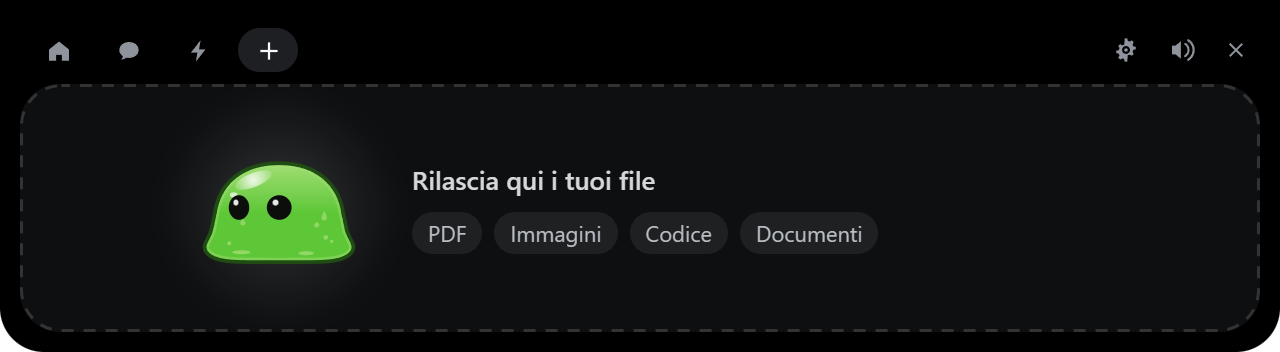
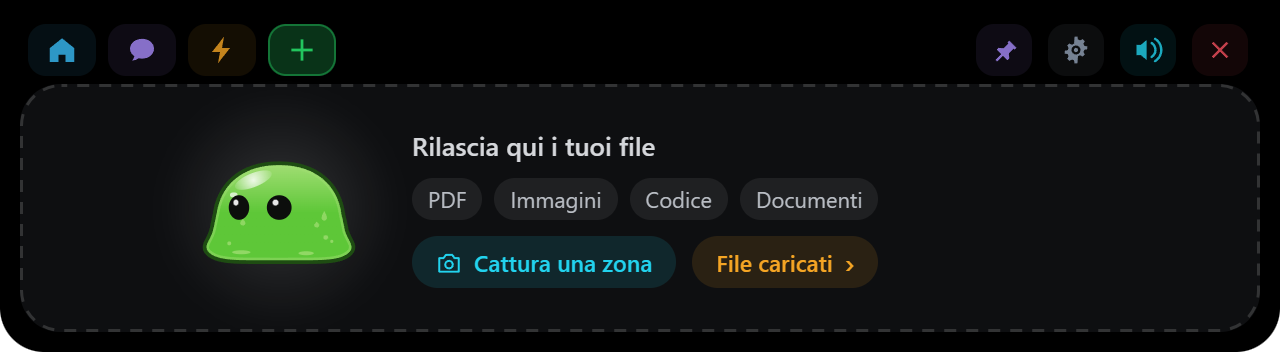
README completo e nuove schermate (completa il commit precedente)
Il commit precedente conteneva solo la rimozione di design/: qui il
resto descritto nel suo messaggio (README, schermate, scena "network",
CLAUDE.md, LICENSE-ASSETS.md, commenti, altezza della scheda ⚡,
caratteri di controllo corretti).

diff --git a/dev/scenes.ts b/dev/scenes.ts
@@ -1,5 +1,6 @@
 // Staged island states for the README screenshots, in the browser preview only:
-//   /?scene=overview   (greeting, compact, overview, approval, chat, drop)
+//   /?scene=overview   (greeting, compact, overview, approval, chat, drop, actions,
+//                       threecx, clipboard, media, network, suggestion)
 // When the scene has settled the page turns transparent and its title says
 // "scene ready"; scripts/screenshots.mjs then captures just the island.
 
@@ -114,6 +115,41 @@ export async function runScene(island: Island, scene: string) {
       State.setFocus("integration_3cx");
       island.alert("overview");
       await wait(2500);
+      break;
+    }
+    case "network": {
+      // ?activeIntegrations=integration_network,… — an integration run as a check.
+      await wait(300);
+      State.widgetStatus.integration_network = {
+        id: "integration_network", level: "ok", at: Math.floor(Date.now() / 1000) - 40,
+        summary: "Wi-Fi Ufficio · 18 ms",
+        fields: [
+          { label: "IP locale", value: "192.168.1.24" },
+          { label: "IP pubblico", value: "203.0.113.57" },
+          { label: "Wi-Fi", value: "Ufficio (5 GHz, 86%)" },
+          { label: "VPN", value: "nessuna" },
+          { label: "Latenza", value: "18 ms" },
+        ],
+      };
+      State.setFocus("integration_network");
+      island.alert("overview");
+      await wait(2500);
+      break;
+    }
+    case "actions": {
+      // The ⚡ tab: the user's quick actions and the suggestions for the app in front.
+      await wait(300);
+      const base = { args: "", script: "", shell: "powershell" as const, prompt: "", input: "clipboard" as const, confirm: true, hotkey: "", target: "" };
+      State.settings.actions = [
+        { ...base, id: "a1", name: "Portale clienti", icon: "i:globe", color: "#38BDF8", kind: "url", target: "https://example.com" },
+        { ...base, id: "a2", name: "Desktop remoto", icon: "i:remote", color: "#A78BFA", kind: "app", target: "mstsc" },
+        { ...base, id: "a3", name: "Spooler", icon: "i:printer", color: "#F5A524", kind: "script", script: "Restart-Service Spooler" },
+        { ...base, id: "a4", name: "Spiega errore", icon: "i:bolt", color: "#22C55E", kind: "prompt", prompt: "Spiega questo errore", hotkey: "Ctrl+Alt+E" },
+      ];
+      State.foreground = { exe: "outlook.exe", title: "Posta in arrivo - Outlook" };
+      island.alert("actions");
+      // The tab grows to fit four actions: give it time to settle.
+      await wait(4000);
       break;
     }
     case "suggestion":

diff --git a/src/views/actions.ts b/src/views/actions.ts
@@ -63,7 +63,11 @@ function actionButton(a: QuickAction, onClick: () => void): HTMLElement {
 export function buildActions(handlers: ActionHandlers): ViewHost {
   const grid = h("div", { class: "qa-grid" });
   const suggest = h("div", { class: "qa-suggest" });
-  const el = h("div", { class: "view" }, h("div", { class: "card qa-card" }, suggest, grid));
+  const card = h("div", { class: "card qa-card" }, suggest, grid);
+  const el = h("div", { class: "view" }, card);
+  // The buttons wrap differently while the island is still widening: measure
+  // again whenever their block changes size, not only when the actions change.
+  new ResizeObserver(() => State.notify()).observe(grid);
   let key = "";
   return {
     el,
@@ -109,7 +113,8 @@ export function buildActions(handlers: ActionHandlers): ViewHost {
       for (const a of list) grid.append(actionButton(a, () => handlers.runAction(a)));
     },
     // Many actions wrap onto more rows: the island grows to show them all.
-    fitHeight: () => suggest.offsetHeight + grid.offsetHeight + 26,
+    // scrollHeight: the card's padding and the gap under the suggestions included.
+    fitHeight: () => card.scrollHeight + 2,
   };
 }
 

diff --git a/src/settings/main.ts b/src/settings/main.ts
@@ -553,7 +553,7 @@ function integrationsSection(present: Record<string, boolean>): HTMLElement {
         } catch (e) {
           dotEl.style.background = "#f5a524";
           // Windows refuses new entries when its Credential Manager is nearly full.
-          const full = /memoria|memory|8|1312/i.test(String(e));
+          const full = /memoria|memory|\b8\b|1312/i.test(String(e));
           saveError.textContent = full
             ? "Non salvata: Gestione credenziali di Windows è piena. Elimina le voci che non servono (es. le centinaia di token di Xbox) e riprova."
             : `Non salvata: ${String(e).replace(/^Error:\s*/, "")}`;

diff --git a/src/character/engine.ts b/src/character/engine.ts
@@ -1,7 +1,7 @@
 // The character's engine — states, tweens, emotes and particles, ported from the
 // original BotEngine.swift to Canvas 2D (same constants, tweens and easings).
-// The body is whichever character is chosen (./character.ts); the eye arcs follow the prototype
-// (design/prototype/notch-buddy.html).
+// The body is whichever character is chosen (./character.ts); the eye arcs follow the
+// original Coucou prototype (in this repository's git history).
 
 import { Ease, lerp, type EaseFn } from "../core/anim";
 import { Sound } from "../core/sound";

diff --git a/src/upload/sequence.ts b/src/upload/sequence.ts
@@ -1,5 +1,5 @@
 // The drop choreography — port of UploadSequenceEngine.swift, itself a port of
-// design/prototype/upload-sequence.html.
+// the original Coucou prototype (upload-sequence.html, in the git history).
 //
 // The engine is pure arithmetic: it owns no DOM and draws nothing. It takes the
 // cursor and a drop time, and hands `frame()` back everything the canvas needs

diff --git a/README.md b/README.md
@@ -17,6 +17,32 @@ Approva i permessi di Claude Code, guarda la sessione lavorare, rilascia un file
 
 <img src="screenshots/greeting.png" width="640" alt="Slime che saluta all'avvio">
 
+## Cosa fa
+
+- **Claude Code nell'isola**: vedi le sessioni lavorare, rispondi ai permessi
+  con **Nega / Consenti** e alle domande, torna all'app della sessione con un clic
+  ([Claude Code](#claude-code)).
+- **Chat con Claude** dall'isola, con l'abbonamento o una chiave API; allega
+  testo, file, immagini copiate o una **zona dello schermo**; calcolatrice nel
+  campo ([Chat con Claude](#chat-con-claude)).
+- **Azioni rapide** (link, programmi, script, domande a Claude) con scorciatoie
+  globali, e suggerimenti per l'app che stai usando
+  ([Azioni rapide](#azioni-rapide-e-scorciatoie)).
+- **Integrazioni** come pillole o schede: 3CX (chiamate, rubrica, chiamate in
+  arrivo), Zammad, Outlook, stato del PC, sicurezza, rete, meteo, appunti con
+  testi e immagini, musica, GitHub, Vercel, Stripe, n8n e altre
+  ([Integrazioni](#integrazioni)); **widget** per siti, certificati, server,
+  domini, calendari, API ([Widget](#widget)).
+- **Automazioni** "quando… allora…", create dalle Impostazioni o a parole in
+  chat, e proposte dalle tue abitudini; Claude può anche usare il PC per te, con
+  il tuo consenso ([Automazioni](#automazioni)).
+- **File rilasciati**: domande su un file, estrazione degli ZIP, cronologia dei
+  file caricati.
+- **Profili** (lavoro, casa, concentrazione) che cambiano da soli, modalità
+  **davanti al cliente**, messaggi da qualsiasi script, backup delle impostazioni.
+- **Tre personaggi** (Slime, Goccia, EasyTech), posizione libera, tema, suoni
+  generati nel codice; leggera a batteria, nessuna telemetria.
+
 ---
 
 ## Installazione
@@ -144,7 +170,8 @@ disinstallatore volutamente non tocca il `settings.json` di Claude Code. Poi
 | `error: toolchain 'stable-x86_64-pc-windows-msvc' is not installed` | `rustup default stable-msvc` |
 | l'installer viene bloccato da Defender | è il falso positivo descritto sopra: usa "Esegui comunque", oppure lancia direttamente `target\release\easyisland.exe` |
 | Slime non compare | guarda nell'area di notifica (la freccia ^ accanto all'orologio) e il log in `%LOCALAPPDATA%\EasyIsland\easyisland.log` |
-| le Impostazioni | sono divise in pagine (Generale, Aspetto, Notifiche, Claude, Azioni rapide, Integrazioni, Widget, Backup) nel menu a sinistra; la finestra ricorda l'ultima aperta |
+| le Impostazioni | sono divise in pagine (Generale, Aspetto, Notifiche, Claude, Azioni rapide, Automazioni, Integrazioni, Widget, Backup) nel menu a sinistra; la finestra ricorda l'ultima aperta |
+| una chiave o una password "non si salva" | Gestione credenziali di Windows è piena (spesso di centinaia di token in cache di Xbox o di altre app) e rifiuta le voci nuove: le Impostazioni lo dicono sotto il campo. Elimina le voci che non servono da Pannello di controllo → Gestione credenziali → Credenziali generiche e riprova |
 | vuoi aprire le impostazioni senza l'area di notifica | `"%LOCALAPPDATA%\EasyIsland\easyisland.exe" --settings` (anche come collegamento) |
 
 ## Come si usa
@@ -153,15 +180,17 @@ disinstallatore volutamente non tocca il `settings.json` di Claude Code. Poi
 <img src="screenshots/overview.png" width="640" alt="La panoramica: una sessione di Claude Code al lavoro a sinistra, le altre pillole a destra">
 <img src="screenshots/approval.png" width="640" alt="Una richiesta di permesso di Claude Code, con Nega e Consenti">
 <img src="screenshots/chat.png" width="640" alt="Chat con Claude dall'isola">
-<img src="screenshots/drop.png" width="640" alt="Slime trasformato in una scatola, in attesa di un file">
+<img src="screenshots/drop.png" width="640" alt="Slime trasformato in una scatola, in attesa di un file, con Cattura una zona e File caricati">
 
-_Schermate generate dall'anteprima con `node scripts/screenshots.mjs` (serve `npm run dev` acceso)._
+_Schermate generate dall'anteprima con `node scripts/screenshots.mjs` (serve `npm run dev` acceso), con dati di prova delle scene in `dev/scenes.ts`._
 
 | Cosa fai | Cosa succede |
 |---|---|
 | Porti il mouse sull'icona di Slime (in alto al centro, o nell'angolo che hai scelto) | Slime si ingrandisce (o resta sempre così, con **Sempre visibile**) |
 | Clicchi su Slime, o lasci il mouse sopra per un attimo se "Apri dopo" lo prevede | Si apre l'isola, allineata a quel lato |
-| Trascini Slime tenendo premuto il tasto sinistro | Si sposta dove lo lasci, e la posizione resta salvata nel profilo |
+| Trascini Slime tenendo premuto il tasto sinistro (anche l'icona a riposo) | Si sposta dove lo lasci, e la posizione resta salvata nel profilo |
+| Trascini l'isola aperta dallo spazio vuoto dell'intestazione | Resta lì finché è aperta; chiudendola torna al posto di Slime |
+| Trascini una pillola o una scheda in alto | Cambia posto (si blocca in Impostazioni → Integrazioni) |
 | Clicchi su Slime | Si infastidisce. Tre volte di fila e gli gira la testa |
 | Lasci il puntatore su Slime per due secondi | Cuori |
 | Trascini un file sull'isola | Si apre anche se è impostata "solo con un clic": Slime diventa una scatola, lo inghiotte e poi si offre di rispondere a domande sul file |
@@ -169,6 +198,7 @@ _Schermate generate dall'anteprima con `node scripts/screenshots.mjs` (serve `np
 | 📌 in alto a destra | **Tieni aperta**: l'isola non si chiude più da sola finché non la togli (Esc e ✕ la chiudono comunque) |
 | Scrivi un calcolo nella chat, es. `840 + 22%` o `15% di 840` | Compare subito il risultato; **Invio** lo copia negli appunti, **Ctrl+Invio** chiede comunque a Claude. Il calcolo è fatto in locale, senza Claude |
 | Rilasci uno ZIP | Oltre a "Fai una domanda" c'è **Estrai…**: vedi cosa contiene e lo estrai in una cartella nuova accanto all'originale, in Download o sul Desktop |
+| Scheda **+** → **Cattura una zona** (o `Ctrl+Alt+Shift+S`) | Lo Strumento di cattura di Windows: scegli una zona, una finestra o lo schermo e la chat si apre con l'immagine allegata |
 | Scheda **+** → **File caricati** | La cronologia dei file rilasciati sull'isola (le copie tenute per una settimana): chiedi a Claude, apri, mostra nella cartella, elimina uno o tutti. Gli originali non vengono toccati |
 | Icona nell'area di notifica | Apri, Impostazioni…, Pausa, Esci |
 
@@ -182,6 +212,8 @@ poi le pillole scorrono).
 ## Posizione e aspetto
 
 **Impostazioni… → Posizione e aspetto** decide dove vive Slime e quanto si fa notare:
+
+<img src="screenshots/settings.png" width="700" alt="La finestra delle impostazioni, pagina Aspetto">
 
 - **Posizione**: in alto o in basso, a sinistra, al centro o a destra. Quando si
   apre, l'isola cresce dall'angolo scelto e il contenuto resta allineato a quel
@@ -233,6 +265,8 @@ di EasyIsland. Le impostazioni si cambiano nell'indirizzo, per esempio
 ## Azioni rapide e scorciatoie
 
 **Impostazioni… → Azioni rapide** crea i pulsanti della scheda ⚡ dell'isola:
+
+<img src="screenshots/actions.png" width="640" alt="La scheda Azioni: i suggerimenti per Outlook in alto e le azioni rapide sotto">
 
 | Tipo | Cosa fa |
 |---|---|
@@ -302,6 +336,48 @@ come"). Aprendo la scheda si vede solo quell'integrazione; le pillole restano
 sulla scheda ⌂.
 
 Quali integrazioni sono accese, e come sono mostrate, dipende dal profilo.
+
+<img src="screenshots/threecx.png" width="640" alt="3CX: una chiamata in arrivo con Rispondi e Rifiuta, una chiamata in linea e la ricerca in rubrica">
+<img src="screenshots/clipboard.png" width="640" alt="Appunti: un'immagine copiata, un link, un indirizzo fissato e un JSON">
+<img src="screenshots/media.png" width="640" alt="Musica: il brano in riproduzione con i controlli">
+<img src="screenshots/network.png" width="640" alt="Rete: IP locale e pubblico, Wi-Fi, VPN e latenza">
+<img src="screenshots/settings-integrations.png" width="700" alt="Impostazioni, pagina Integrazioni">
+
+### 3CX
+
+Chiamate, rubrica e chiamate in arrivo del tuo interno, dall'isola, su un
+centralino **3CX V20**. In **Impostazioni → Integrazioni → 3CX** scegli
+l'accesso:
+
+- **Interno e password** (consigliato): EasyIsland entra come fa l'app 3CX, con
+  l'indirizzo del centralino (es. `https://azienda.my3cx.it:5001`), il tuo interno
+  o la tua e-mail e la password del web client. Nessuna licenza in più e niente
+  da fare nell'Admin Console. È il modo in cui funziona il web client di 3CX, non
+  un'interfaccia documentata: un aggiornamento del centralino potrebbe
+  richiedere un aggiornamento di EasyIsland. La verifica in due passaggi non è
+  ancora supportata.
+- **Client API**: nell'Admin Console di 3CX, **Integrazioni → API → Aggiungi**,
+  spunta *3CX Call Control API Access* (e *Configuration API Access* per la
+  rubrica) e aggiungi il tuo interno tra quelli monitorati; in EasyIsland metti
+  indirizzo, Client ID, chiave API e interno. Serve una licenza **8SC o
+  superiore**. Stato e cronologia non sono disponibili in questo modo.
+
+Nella scheda **3CX**:
+
+- **Chiamare**: scrivi un numero o cerca un nome, un'azienda o un collega e
+  clicca il numero; **Invio** chiama il primo risultato.
+- **Dispositivo**: in fondo, **Da …** sceglie da dove parte la chiamata (app 3CX
+  per Windows, telefono da scrivania, smartphone) oppure *automatico*.
+- **Chiamate in arrivo**: l'isola si apre sulla scheda 3CX con un suono e resta
+  aperta finché squilla, con **Rispondi** (se il dispositivo si può comandare a
+  distanza, come l'app 3CX) e **Rifiuta**. Con "davanti al cliente" attivo compare
+  solo il segnale sulla pillola, senza il nome di chi chiama.
+- **In linea**: durata della chiamata e **Riaggancia**.
+- **Stato** (Disponibile, Assente, Non disturbare…) dal menu accanto a "3CX",
+  **chiamate perse** e **Recenti** (solo con interno e password).
+
+EasyIsland resta collegato solo con l'integrazione accesa e non in pausa, e si
+ricollega da solo se il collegamento cade. Numeri e nomi restano in memoria.
 
 ## Widget
 
@@ -386,8 +462,6 @@ attivo.
 
 ## Claude Code
 
-<img src="screenshots/settings.png" width="700" alt="La finestra delle impostazioni, pagina Aspetto">
-
 Apri **Impostazioni… → Claude Code → Installa hook…**. Vedi il diff esatto di cosa
 cambierà in `%USERPROFILE%\.claude\settings.json` e il percorso della copia di
 backup datata che verrà creata. Non viene scritto nulla finché non clicchi. I tuoi
@@ -429,12 +503,16 @@ Le chiavi stanno in **Gestione credenziali di Windows**, mai su disco e mai
 nell'interfaccia: l'isola può solo chiedere se una chiave esiste. Lo stesso vale
 per le chiavi di ogni integrazione.
 
+Alla chat si può allegare il testo copiato o un'immagine (`Ctrl+Alt+K`), un file
+rilasciato sull'isola, una **zona dello schermo** (`Ctrl+Alt+Shift+S` o scheda
+**+**) o un'immagine della cronologia Appunti (**Chiedi a Claude**).
+
 Slime risponde in italiano, a meno che tu non gli scriva in un'altra lingua.
 **Nuova chat**, a sinistra del campo di testo, dimentica la conversazione (e il
 file o il testo a cui si riferiva) e ne comincia una da zero.
 
 Con "Abbonamento Claude", EasyIsland cerca Claude Code nel `PATH`, in
-`%USERPROFILE%\.localin` e nella cartella di npm; se non c'è un'installazione
+`%USERPROFILE%\.local\bin` e nella cartella di npm; se non c'è un'installazione
 a sé, usa la copia inclusa nell'app desktop di Claude
 (`%APPDATA%\Claude\claude-code\<versione>`) o nell'estensione per VS Code,
 sempre la versione più recente.
@@ -448,6 +526,8 @@ Aggiornamenti).
 
 **Impostazioni… → Automazioni**: quando succede qualcosa, EasyIsland fa
 qualcosa per te.
+
+<img src="screenshots/settings-automations.png" width="700" alt="Impostazioni, pagina Automazioni">
 
 | Quando | Esempio |
 |---|---|
@@ -486,6 +566,8 @@ rifiutate* se cambi idea). Propone anche le sequenze (*"Quando apri il gestional
 e, se un'automazione nata da una proposta non ti serve più (apre un programma
 che poi non usi), ti chiede se spegnerla. In **Programmi da non osservare**
 indichi quelli da ignorare. Al massimo una proposta al giorno.
+
+<img src="screenshots/suggestion.png" width="640" alt="Una proposta dalle abitudini: Apro Outlook alle 08:50?">
 
 ### Claude può usare il PC
 
@@ -551,8 +633,8 @@ npm run icons          # rigenera src-tauri/icons da scripts/gen-icons.mjs
 2. Crea e invia il tag:
 
    ```powershell
-   git tag v0.5.0
-   git push origin v0.5.0
+   git tag vX.Y.Z
+   git push origin vX.Y.Z
    ```
 
 3. La workflow **Build** compila l'installer, lo firma per l'aggiornamento e
@@ -576,10 +658,11 @@ mano. Tienine una copia al sicuro.
     island/            macchina a stati, hook, integrazioni
     views/             tutte le viste dell'isola
     settings/          la finestra delle impostazioni
-  src-tauri/           backend Rust: finestra, named pipe, API Claude, poller
-  hook/                easyisland-hook.exe, il relay per Claude Code
-  scripts/             generatore di icone, impacchettamento dell'installer
-  design/              prototipo HTML originale e catture di riferimento
+  src-tauri/           backend Rust: finestra, named pipe, API Claude, integrazioni, 3CX, automazioni
+  hook/                easyisland-hook.exe: il relay per Claude Code e il connettore MCP "easyisland"
+  scripts/             icone, impacchettamento dell'installer, schermate del README
+  dev/                 anteprime nel browser (personaggi, suoni, rilascio) e scene delle schermate
+  screenshots/         le immagini di questo README
 ```
 
 ### Log
@@ -592,8 +675,8 @@ problemi dei poller. Resta sul tuo computer.
 EasyIsland nasce come fork solo per Windows di
 [Louis-CFM/coucou](https://github.com/Louis-CFM/coucou) (Coucou, con il
 personaggio Mochi), app nativa macOS per il notch. Slime, uno slime,
-ha preso il posto di Mochi. Il codice macOS è stato rimosso; il
-prototipo originale in `design/` resta il riferimento visivo. Alcune funzioni
+ha preso il posto di Mochi. Il codice macOS e il prototipo originale sono stati
+rimossi (restano nella storia git). Alcune funzioni
 esistevano solo sul Mac e non sono presenti qui: invio di un file per email,
 trascinamento di Slime su una finestra per allegarla come contesto, salto alla
 finestra esatta del terminale. Al suo posto, quando una sessione finisce o va

diff --git a/HANDOFF.md b/HANDOFF.md
@@ -237,6 +237,13 @@ Apri una sessione su questo repo e scrivi, per esempio: _"Leggi HANDOFF.md e CLA
 
 ## 10. Registro delle modifiche
 
+### 4 ottobre 2026 — README completo, nuove schermate, via la cartella design
+- **README:** nuova sezione "Cosa fa" in cima con i collegamenti; sezione **3CX** (i due accessi e come configurarli, cosa fa la scheda); spostamento dell'isola aperta, riordino di pillole e schede, Cattura una zona e allegati della chat nella tabella "Come si usa"; soluzione per "la chiave non si salva" (Gestione credenziali piena); pagina Automazioni nell'elenco delle Impostazioni; struttura del repository aggiornata (`dev/`, `screenshots/`, niente `design/`); esempio del tag di versione generico. Corretto un carattere di controllo (backspace) che rovinava il percorso `%USERPROFILE%\.local\bin`.
+- **Schermate** (`scripts/screenshots.mjs`, scene in `dev/scenes.ts`): rifatte tutte, con le pillole di più integrazioni in panoramica e barra compatta, più le nuove `actions` (scheda ⚡ con i suggerimenti per Outlook), `threecx`, `clipboard`, `media`, `network` (scena nuova), `suggestion` e le pagine `settings-integrations` e `settings-automations`. Nota: lanciate tutte insieme, dopo la sesta l'isola risultava chiusa (altezza 0); una alla volta (`node scripts/screenshots.mjs <nome>`) riescono tutte.
+- **Correzione nella scheda ⚡** (trovata con la schermata): con le azioni su due righe l'isola non cresceva abbastanza e l'ultima riga restava tagliata. L'altezza ora è quella vera della scheda (`scrollHeight`, compreso il margine sotto i suggerimenti) e un `ResizeObserver` la ricalcola quando i pulsanti vanno a capo mentre l'isola si allarga.
+- **Correzione:** nel controllo "Gestione credenziali piena" delle Impostazioni la regola `\b8\b` era stata scritta con due caratteri di controllo; ora riconosce anche l'errore 8.
+- **Via `design/`** (prototipo HTML, animazioni e catture di Coucou): non c'era più nulla del repository originale da usare. Aggiornati CLAUDE.md (il riferimento visivo sono le schermate in `screenshots/` e le scene, il prototipo resta nella storia git), `LICENSE-ASSETS.md` (nessun asset di Coucou nei file, solo nella storia git), README e due commenti nel codice.
+
 ### 4 ottobre 2026 — versione 0.5.3
 - Versione **0.5.3** nei tre file (più `package-lock.json` e `Cargo.lock`), `claude/sviluppo` unito in `main`, tag `v0.5.3`. Rispetto alla 0.5.2: integrazione 3CX (prima versione, con il centralino vero verificati solo login e stato dell'interno), isola spostabile anche a riposo e da aperta (spostamento temporaneo, rientro con la curva di chiusura), scelta del dispositivo disegnata nella scheda, spiegazione quando Gestione credenziali è piena.
 
@@ -520,7 +527,7 @@ Apri una sessione su questo repo e scrivi, per esempio: _"Leggi HANDOFF.md e CLA
 - [ ] **CPU con "Sempre visibile":** ridotta il 2 ottobre (da circa 24 % a circa 9–10 % col mouse in movimento, circa 4 % fermo). Margini ancora possibili: sguardo a 20 fps, finestra più piccola della 720×560 attuale quando l'isola è compatta.
 - [x] **Scorciatoia `Ctrl+Alt+M`** già usata da un altro programma: la predefinita per aprire l'isola è ora `Ctrl+Alt+Shift+M`. Chi ha già salvato `Ctrl+Alt+M` la tiene: va cambiata a mano in Impostazioni → Azioni rapide.
 - [x] **Icona dell'area di notifica:** era Mochi anche con il cubo; dal 2 ottobre è l'isola, uguale per ogni personaggio.
-- [x] Le immagini in `screenshots/` (README) sono rifatte con lo slime (2 ottobre); `design/captures/` resta il riferimento originale con Mochi.
+- [x] Le immagini in `screenshots/` (README) sono rifatte con lo slime (2 ottobre) e, dal 4 ottobre, anche con le integrazioni; la cartella `design/` (prototipo e catture di Coucou) è stata tolta il 4 ottobre e resta nella storia git.
 - [ ] **Sopra la barra:** cliccando la barra, il personaggio va dietro per un istante (circa 0,15 s) prima di tornare davanti.
 - [x] Outlook classico (COM): fatto il 3 ottobre (integrazione Outlook, solo con Outlook già aperto; il nuovo Outlook `olk.exe` non è supportato).
 - [ ] Teams via API locale non fatto: le riunioni si riconoscono dal microfono/webcam in uso.

diff --git a/CLAUDE.md b/CLAUDE.md
@@ -17,7 +17,7 @@ EasyIsland è un'app desktop per Windows 10/11: un piccolo personaggio animato (
 - Integrazioni e widget: un servizio o programma che di solito c'è una volta sola è un'**integrazione** (Impostazioni → Integrazioni), mai un widget; i widget sono solo controlli ripetibili (ping, porta, sito, certificato, servizio, API JSON, calendario ICS, domini). Integrazioni con API: `src-tauri/src/integrations.rs`. Integrazioni che sono controlli (`settings::PROBE_INTEGRATIONS`: stato del PC, sicurezza, rete, meteo in `probes.rs`, Outlook in `outlook.rs`, Zammad in `zammad.rs`) girano nello scheduler di `src-tauri/src/widgets.rs` (`all_widgets`), con opzioni in `integrationConfig`. Widget: `widgets.rs`, `probes.rs` (domini), `calendar.rs` (ICS). Profili automatici in `profiles.rs`, "davanti al cliente" in `presence.rs`, azioni rapide in `actions.rs`, scorciatoie globali in `hotkeys.rs`. 3CX: `src-tauri/src/threecx/` (`myphone.rs` accesso con interno e password, protocollo del web client ricostruito; `api.rs` client API ufficiale; `pb.rs` protobuf minimo), websocket con WinHTTP in `src-tauri/src/wss.rs`, scheda in `src/views/threecx.ts`.
 - Suoni: i 28 suoni sono sintetizzati nel codice in `src/core/synth.ts` (niente file audio), riprodotti da `src/core/sound.ts`; si ascoltano in `dev/sounds-preview.html`. Il volume di ciascuno è tarato sul WAV originale che ha sostituito.
 - `scripts/`: `gen-icons.mjs` (icone disegnate nel codice: l'isola, non il personaggio), `pack.mjs` (copia l'installer in `release/`), `screenshots.mjs` (rifà le schermate del README dalle scene di `dev/scenes.ts`, con `npm run dev` acceso).
-- `design/prototype/notch-buddy.html`: prototipo originale, il riferimento visivo. `design/captures/`: catture di riferimento.
+- `screenshots/`: le immagini del README, rifatte da `scripts/screenshots.mjs`; sono il riferimento visivo attuale. Il prototipo e le catture originali di Coucou (cartella `design/`, tolta il 4 ottobre 2026) restano solo nella storia git.
 
 ## Build
 ```
@@ -39,4 +39,4 @@ La parte Rust si compila solo su Windows (toolchain MSVC). CI: `.github/workflow
 - Prestazioni: nessun frame di animazione / CPU ~0 % quando l'isola è ritirata.
 - La versione sta in tre file che devono coincidere: `package.json`, `Cargo.toml`, `src-tauri/tauri.conf.json` (la CI lo controlla sui tag). Un tag `vX.Y.Z` pubblica la release da cui le app installate si aggiornano.
 - Cambiare `identifier` in `tauri.conf.json` sposta i dati dell'app e le voci in Gestione credenziali: farlo di proposito, una volta sola.
-- Le modifiche visive devono corrispondere al prototipo e alle catture in `design/captures/`. Eccezioni volute: l'aspetto del personaggio (Slime, Goccia ed EasyTech, non il Mochi del prototipo: il prototipo resta il riferimento per animazioni, tempi e viste), l'icona dell'app, posizione (angoli/bordi, trascinamento con `offsetX`/`offsetY`, `overTaskbar`), aggancio ai bordi (`glueEdges`), icona a riposo, vista compatta sempre visibile (`revealDuration` 0) e stile al passaggio del mouse sono specifici di Windows e configurabili (geometria in `src/core/layout.ts` → `anchoredOrigin`, `glueFor`, `cornerRadii`, `collapsedBox`, `compactSize`; lato Rust `island.rs` → `apply_geometry`, `placement_from_drop`).
+- Le modifiche visive devono restare coerenti con l'aspetto attuale dell'isola (schermate in `screenshots/`, scene in `dev/scenes.ts`): animazioni, tempi e viste vengono dal prototipo originale di Coucou (storia git). Specifici di EasyIsland: l'aspetto del personaggio (Slime, Goccia ed EasyTech), l'icona dell'app, posizione (angoli/bordi, trascinamento con `offsetX`/`offsetY`, `overTaskbar`), aggancio ai bordi (`glueEdges`), icona a riposo, vista compatta sempre visibile (`revealDuration` 0) e stile al passaggio del mouse sono specifici di Windows e configurabili (geometria in `src/core/layout.ts` → `anchoredOrigin`, `glueFor`, `cornerRadii`, `collapsedBox`, `compactSize`; lato Rust `island.rs` → `apply_geometry`, `placement_from_drop`).

diff --git a/LICENSE-ASSETS.md b/LICENSE-ASSETS.md
@@ -3,19 +3,19 @@
 EasyIsland is based on [Coucou](https://github.com/Louis-CFM/coucou) by Louis
 Raillé. The [MIT License](LICENSE) covers the source code of both.
 
-EasyIsland's own name, characters (Slime and EasyTech), icons and sounds are
-new and drawn or synthesised in code. None of Coucou's brand assets ship with
-EasyIsland.
+EasyIsland's own name, characters (Slime, Goccia and EasyTech), icons and
+sounds are new and drawn or synthesised in code. None of Coucou's brand assets
+ship with EasyIsland, and since 4 October 2026 none are left in this
+repository's files.
 
-The original Coucou artwork that is still kept in this repository as a design
-reference remains © 2026 Louis Raillé, all rights reserved, and is **not**
-covered by the MIT License:
+The original Coucou artwork remains © 2026 Louis Raillé, all rights reserved,
+and is **not** covered by the MIT License:
 
 - the names **"Coucou"** and **"Mochi"** and the Mochi character;
-- the prototype, animations and captures in `design/`;
-- older assets that may appear in this repository's git history (the Coucou
-  icon, the Mochi sounds, the images in `docs/media/`).
+- older assets that appear in this repository's git history (the Coucou icon,
+  the Mochi sounds, the images in `docs/media/`, the prototype, animations and
+  captures that were in `design/`).
 
-These files are here for reference only: do not reuse them in a published app
-without the author's written permission. Questions:
+Do not reuse them in a published app without the author's written permission.
+Questions:
 [github.com/Louis-CFM/coucou/issues](https://github.com/Louis-CFM/coucou/issues).
